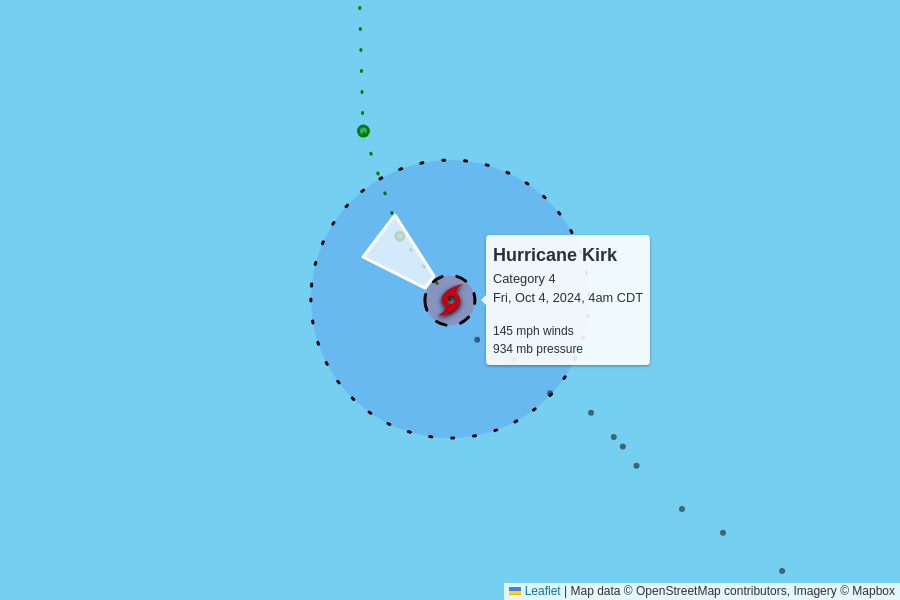
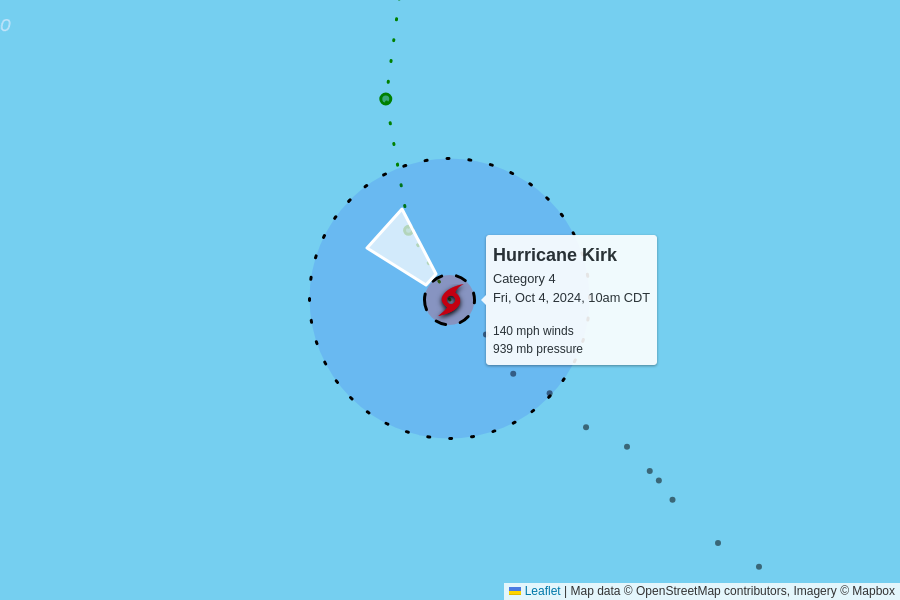
automatic update

diff --git a/docs/index.html b/docs/index.html
@@ -104,7 +104,7 @@
         <td colspan="6" class="storm category-4" >
           <h2>
             Hurricane Kirk - Category 4
-            <p class="updated">last updated <span data-time>2024-10-04T09:00:00.000Z</span></p>
+            <p class="updated">last updated <span data-time>2024-10-04T15:00:00.000Z</span></p>
           </h2>
         </td>
       </tr>
@@ -119,12 +119,12 @@
       </tr>
       <tr>
         <td class="spacer"></td>
-        <td>145 mph<br>0 mph since last update</td>
-        <td>934 mb<br>-1 mb since last update</td>
+        <td>140 mph<br>-5 mph since last update</td>
+        <td>939 mb<br>+5 mb since last update</td>
         <td>
-          10 mph to the northwest
+          12 mph to the northwest
           <br/>
-          <span style="display: inline-block; font-size: 1.5em; transform: rotate(310deg);">↑</span>
+          <span style="display: inline-block; font-size: 1.5em; transform: rotate(315deg);">↑</span>
         </td>
         <td><a href="https://raw.githubusercontent.com/mgwalker/atlantic-hurricanes/main/data/csv/AL122024.csv">AL122024.csv</a></td>
         <td><a href="https://www.nhc.noaa.gov/archive/2024/KIRK.shtml?">NHC advisories</a></td>
@@ -148,7 +148,7 @@
         <td colspan="6" class="storm category-0" >
           <h2>
             Tropical Storm Leslie
-            <p class="updated">last updated <span data-time>2024-10-04T09:00:00.000Z</span></p>
+            <p class="updated">last updated <span data-time>2024-10-04T15:00:00.000Z</span></p>
           </h2>
         </td>
       </tr>
@@ -163,12 +163,12 @@
       </tr>
       <tr>
         <td class="spacer"></td>
-        <td>60 mph<br>+10 mph since last update</td>
-        <td>997 mb<br>-4 mb since last update</td>
+        <td>65 mph<br>+5 mph since last update</td>
+        <td>996 mb<br>-1 mb since last update</td>
         <td>
-          6 mph to the west
+          7 mph to the west-northwest
           <br/>
-          <span style="display: inline-block; font-size: 1.5em; transform: rotate(270deg);">↑</span>
+          <span style="display: inline-block; font-size: 1.5em; transform: rotate(290deg);">↑</span>
         </td>
         <td><a href="https://raw.githubusercontent.com/mgwalker/atlantic-hurricanes/main/data/csv/AL132024.csv">AL132024.csv</a></td>
         <td><a href="https://www.nhc.noaa.gov/archive/2024/LESLIE.shtml?">NHC advisories</a></td>
